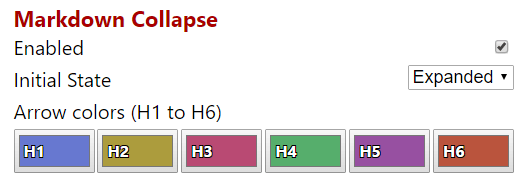
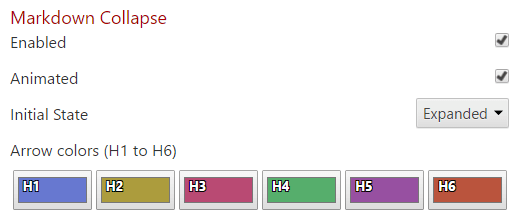
Global: update docs

diff --git a/docs/README.md b/docs/README.md
@@ -19,6 +19,29 @@ The "Reset" button at the bottom of the page will restore all default settings.
 
 # Change Log
 
+### Version 1.1.0 (4/2/2017)
+
+* Readme: Add link to Opera extension.
+* Global:
+  * Use improved closest function.
+  * Switch to using a single manifest file for all browsers.
+  * Change to using "options_ui" instead of deprecated "options_page".
+  * Update option page &amp; styling.
+  * Update docs.
+  * Misc code cleanup.
+* Docs:
+  * Update settings.
+  * Update screenshots.
+* Collapsed-Comment:
+  * Add comment animation; See [pull #1](https://github.com/Mottie/Octopatcher/pull/1); thanks [@gluons](https://github.com/gluons)!
+  * Add animated option to allow toggling.
+  * Use pjax & preview event listeners.
+* Collapsed-Markdown:
+  * Add markdown animation; See [pull #1](https://github.com/Mottie/Octopatcher/pull/1); thanks [@gluons](https://github.com/gluons)!
+  * Add animated option to allow toggling.
+* Meta:
+  * Update dependencies.
+
 ### Version 1.0.5 (7/30/2016)
 
 * Add help pages to manifest.

diff --git a/docs/collapse-markdown.md b/docs/collapse-markdown.md
@@ -11,12 +11,13 @@ Adds an arrow that can be used to collapse markdown headers
 
 ## Settings
 
-![markdown-collapse](https://cloud.githubusercontent.com/assets/136959/16566473/660ccb40-41da-11e6-864e-2e3bb7708b12.png)
+![markdown-collapse](images/markdown-collapse.png)
 
 * "Enabled" - Check to enable the markdown collapse script.
+* "Animated" - Check to enable animation of content; added in v1.1.0.
 * "Initial State" - Set to "Collapsed" (default) to have all header content initially collapsed, or "Expanded" to leave the markdown as-is.
 * "Arrow Colors" - Click on any of the color swatches to change the arrow color associated with each header (H1 through H6). The default palette was generated from [iwanthue](http://tools.medialab.sciences-po.fr/iwanthue/) using colorblind friendly, soft colors.
 
 ## Screenshot
 
-![github-collapse-markdown](https://cloud.githubusercontent.com/assets/136959/16364748/34f5d776-3bb4-11e6-84c7-a00f2817f80a.gif)
+![github-collapse-markdown](images/github-collapse-markdown.gif)

diff --git a/docs/collapse-comment.md b/docs/collapse-comment.md
@@ -10,12 +10,13 @@ Adds a header that can toggle long code and quote blocks in issue comments
 
 ## Settings
 
-![content-collapse](https://cloud.githubusercontent.com/assets/136959/16566472/66091342-41da-11e6-854d-d4023c80071a.png)
+![content-collapse](images/content-collapse.png)
 
 * "Enabled" - Check to enable (default) the content collapse script.
+* "Animated" - Check to enable (default) animation of content; added in v1.1.0.
 * "Initial State" - Set to "Collapsed" (default) to have the blocks initially collapsed, or "Expanded" to keep the blocks expanded.
 * "Min Lines" - Set the minimum number of lines (`10` by default) that needs to be within a block before a header is added.
 
 ## Screenshot
 
-![github-collapse-in-comment](https://cloud.githubusercontent.com/assets/136959/16365968/71ebeeac-3bd4-11e6-970f-b7616347e440.gif)
+![github-collapse-in-comment](images/github-collapse-in-comment.gif)
